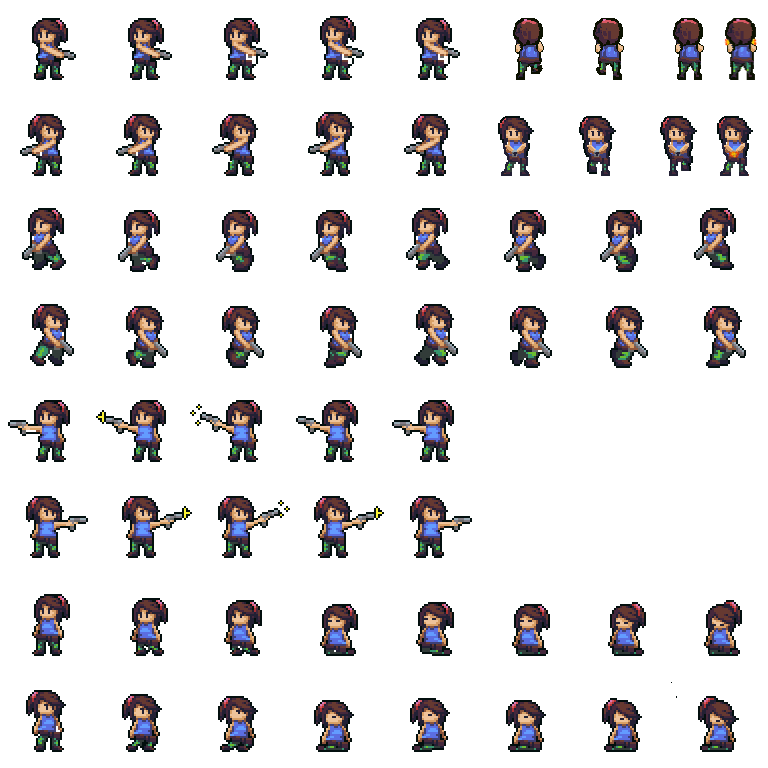
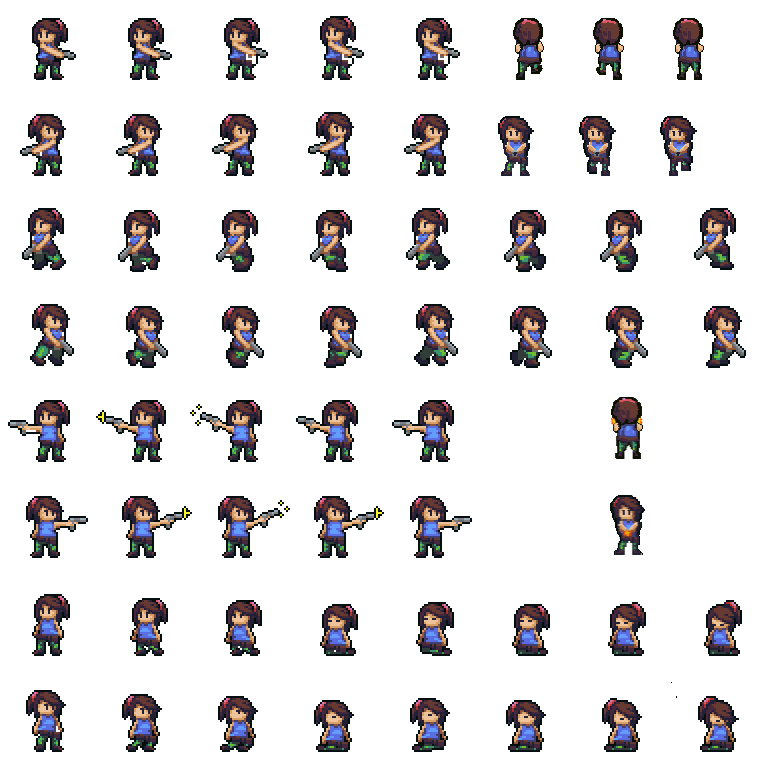
shooting animation left/right, no animation up/down

Changed region(s): [[0.9375, 0.0, 1.0, 0.25], [0.7812, 0.625, 0.8438, 0.7188], [0.7812, 0.5, 0.8438, 0.5938]]

diff --git a/gameMedia.c b/gameMedia.c
@@ -111,7 +111,7 @@ void loadMedia(InitSDL* iSDL, Background_Tiles* backTiles, ZombieInit* ZombInit,
     ZombInit->gZombie[31].y = 374;
 
     //Player
-    SDL_Surface* gPlayerSurface = IMG_Load("resources/images/pixel-768x768-31.png");
+    SDL_Surface* gPlayerSurface = IMG_Load("resources/images/pixel-768x768-31-2.png");
     PlayerInit->mPlayer = SDL_CreateTextureFromSurface(iSDL->renderer, gPlayerSurface);
 
     //Ståendes med kroppen mot skärmen med pistol
@@ -189,15 +189,26 @@ void loadMedia(InitSDL* iSDL, Background_Tiles* backTiles, ZombieInit* ZombInit,
     PlayerInit->gPlayer[13].w = 64;
     PlayerInit->gPlayer[13].h = 64; 
 
-    PlayerInit->gPlayer[14].x = 645;
+    PlayerInit->gPlayer[14].x = 483;
     PlayerInit->gPlayer[14].y = 111;
     PlayerInit->gPlayer[14].w = 64;
     PlayerInit->gPlayer[14].h = 64; 
 
+    //Shoot left/right
     PlayerInit->gPlayer[15].x = 97;
     PlayerInit->gPlayer[15].y = 399;
     PlayerInit->gPlayer[15].w = 69;
     PlayerInit->gPlayer[15].h = 64;
+    //Shoot Up
+    /*PlayerInit->gPlayer[16].x = 595;
+    PlayerInit->gPlayer[16].y = 397;
+    PlayerInit->gPlayer[16].w = 64;
+    PlayerInit->gPlayer[16].h = 64;
+    //Shoot down
+    PlayerInit->gPlayer[16].x = 590;
+    PlayerInit->gPlayer[16].y = 490;
+    PlayerInit->gPlayer[16].w = 64;
+    PlayerInit->gPlayer[16].h = 64;*/
 
     //Bullet
     SDL_Surface* gBulletSurface = IMG_Load("resources/images/bullet.png");

diff --git a/gameEvent.c b/gameEvent.c
@@ -60,6 +60,7 @@ void pressedKeyEvent(int *up_w, int *down_s, int *left_a, int *right_d, int *lct
         if(msTimer(&b.currentShotTime, &b.lastShotTime, 500)){  //13 rps
             b.shot = true;
             playPistolShot();
+            if(PlayerInit.pFrame[playerID] >= 0 && PlayerInit.pFrame[playerID] <= 8) PlayerInit.pFrame[playerID] = 15;
             sendData(1, 0,  0, "127.0.0.1", playerID);
         }
     }
@@ -118,8 +119,7 @@ void releasedKeyEvent(int *up_w, int *down_s, int *left_a, int *right_d, int *lc
     }
 
     if(event.key.keysym.sym==SDLK_LCTRL){
-        lctrl=0;
-        PlayerInit.pFrame[playerID]=15;
+        if(PlayerInit.pFrame[playerID] == 15) PlayerInit.pFrame[playerID]=0;
     }
 }
 
